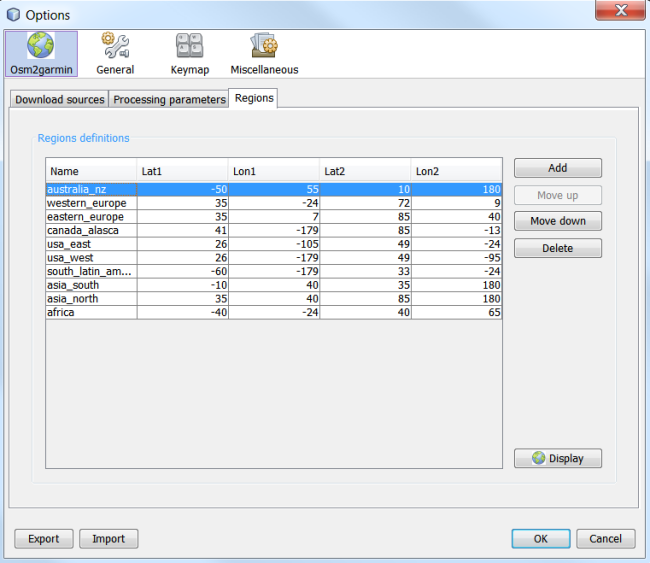
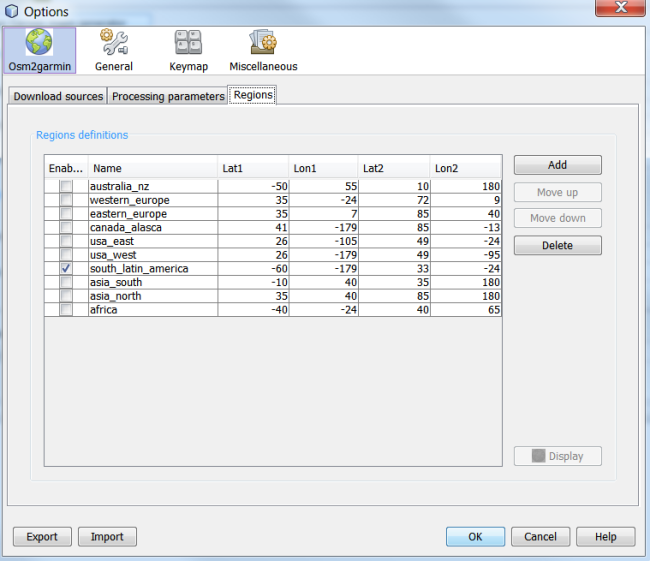
Regions selection for processing Update issue 16 Selection of regions for processing enabled in GUI as well as command-line processing. In CLI, if region line starts with x, the region is excluded from processing. GUI regions table provides the same functionality and writes current state to regions.

Changed region(s): [[0.0, 0.0, 1.0, 1.0], [0.6769, 0.9394, 0.9538, 1.0], [0.9846, 0.7273, 1.0, 0.7576]]

diff --git a/Osm2garminGUI/src/main/java/org/mantlik/osm2garminspi/RegionsPanel.java b/Osm2garminGUI/src/main/java/org/mantlik/osm2garminspi/RegionsPanel.java
@@ -71,11 +71,11 @@ final class RegionsPanel extends javax.swing.JPanel implements ListSelectionList
 
             },
             new String [] {
-                "Name", "Lat1", "Lon1", "Lat2", "Lon2"
+                "Enabled", "Name", "Lat1", "Lon1", "Lat2", "Lon2"
             }
         ) {
             Class[] types = new Class [] {
-                java.lang.String.class, java.lang.Float.class, java.lang.Float.class, java.lang.Float.class, java.lang.Float.class
+                java.lang.Boolean.class, java.lang.String.class, java.lang.Float.class, java.lang.Float.class, java.lang.Float.class, java.lang.Float.class
             };
 
             public Class getColumnClass(int columnIndex) {
@@ -91,11 +91,12 @@ final class RegionsPanel extends javax.swing.JPanel implements ListSelectionList
             }
         });
         jScrollPane3.setViewportView(regionsTable);
-        regionsTable.getColumnModel().getColumn(0).setHeaderValue(org.openide.util.NbBundle.getMessage(RegionsPanel.class, "RegionsPanel.regionsTable.columnModel.title0_1")); // NOI18N
-        regionsTable.getColumnModel().getColumn(1).setHeaderValue(org.openide.util.NbBundle.getMessage(RegionsPanel.class, "RegionsPanel.regionsTable.columnModel.title1_1")); // NOI18N
-        regionsTable.getColumnModel().getColumn(2).setHeaderValue(org.openide.util.NbBundle.getMessage(RegionsPanel.class, "RegionsPanel.regionsTable.columnModel.title2_1")); // NOI18N
-        regionsTable.getColumnModel().getColumn(3).setHeaderValue(org.openide.util.NbBundle.getMessage(RegionsPanel.class, "RegionsPanel.regionsTable.columnModel.title3_1")); // NOI18N
-        regionsTable.getColumnModel().getColumn(4).setHeaderValue(org.openide.util.NbBundle.getMessage(RegionsPanel.class, "RegionsPanel.regionsTable.columnModel.title4_1")); // NOI18N
+        regionsTable.getColumnModel().getColumn(0).setHeaderValue(org.openide.util.NbBundle.getMessage(RegionsPanel.class, "RegionsPanel.regionsTable.columnModel.title5")); // NOI18N
+        regionsTable.getColumnModel().getColumn(1).setHeaderValue(org.openide.util.NbBundle.getMessage(RegionsPanel.class, "RegionsPanel.regionsTable.columnModel.title0_1")); // NOI18N
+        regionsTable.getColumnModel().getColumn(2).setHeaderValue(org.openide.util.NbBundle.getMessage(RegionsPanel.class, "RegionsPanel.regionsTable.columnModel.title1_1")); // NOI18N
+        regionsTable.getColumnModel().getColumn(3).setHeaderValue(org.openide.util.NbBundle.getMessage(RegionsPanel.class, "RegionsPanel.regionsTable.columnModel.title2_1")); // NOI18N
+        regionsTable.getColumnModel().getColumn(4).setHeaderValue(org.openide.util.NbBundle.getMessage(RegionsPanel.class, "RegionsPanel.regionsTable.columnModel.title3_1")); // NOI18N
+        regionsTable.getColumnModel().getColumn(5).setHeaderValue(org.openide.util.NbBundle.getMessage(RegionsPanel.class, "RegionsPanel.regionsTable.columnModel.title4_1")); // NOI18N
 
         org.openide.awt.Mnemonics.setLocalizedText(addRegionButton, org.openide.util.NbBundle.getMessage(RegionsPanel.class, "RegionsPanel.addRegionButton.text")); // NOI18N
         addRegionButton.addActionListener(new java.awt.event.ActionListener() {
@@ -217,11 +218,12 @@ final class RegionsPanel extends javax.swing.JPanel implements ListSelectionList
         if ((selectedRow < 0) || (selectedRow >= regionsTable.getRowCount())) {
             return;
         }
-        String name = (String) model.getValueAt(selectedRow, 0);
-        float lat1 = (Float) model.getValueAt(selectedRow, 1);
-        float lon1 = (Float) model.getValueAt(selectedRow, 2);
-        float lat2 = (Float) model.getValueAt(selectedRow, 3);
-        float lon2 = (Float) model.getValueAt(selectedRow, 4);
+        boolean enabled = (Boolean) model.getValueAt(selectedRow, 0);
+        String name = (String) model.getValueAt(selectedRow, 1);
+        float lat1 = (Float) model.getValueAt(selectedRow, 2);
+        float lon1 = (Float) model.getValueAt(selectedRow, 3);
+        float lat2 = (Float) model.getValueAt(selectedRow, 4);
+        float lon2 = (Float) model.getValueAt(selectedRow, 5);
         float left = Math.max(lon1 - 5, -180);
         float right = Math.min(lon2 + 5, 180);
         float bottom = Math.max(lat1 - 5, -65);
@@ -235,7 +237,7 @@ final class RegionsPanel extends javax.swing.JPanel implements ListSelectionList
         File r = new File(rname);
         try {
             PrintStream printer = new PrintStream(r);
-            printer.println("<html><head><title>"+name+"</title></head><body>");
+            printer.println("<html><head><title>" + name + "</title></head><body>");
             printer.println("<img src=\"" + addr + "\" />");
             printer.println("</body></html>");
             printer.close();
@@ -282,13 +284,18 @@ final class RegionsPanel extends javax.swing.JPanel implements ListSelectionList
             s = new Scanner(new FileInputStream(r));
             while (s.hasNext()) {
                 String[] l = s.nextLine().split(" +");
-                if (l.length >= 5) {
+                if (l.length >= 5 && !(l[0].startsWith("#"))) {
+                    boolean enabled = true;
+                    if (l[0].startsWith("x")) {
+                        enabled = false;
+                        l[0] = l[0].replace("x", "");
+                    }
                     String name = l[4];
                     float lon1 = Float.parseFloat(l[0]);
                     float lat1 = Float.parseFloat(l[1]);
                     float lon2 = Float.parseFloat(l[2]);
                     float lat2 = Float.parseFloat(l[3]);
-                    model.insertRow(model.getRowCount(), new Object[]{name, lat1, lon1, lat2, lon2});
+                    model.insertRow(model.getRowCount(), new Object[]{enabled, name, lat1, lon1, lat2, lon2});
                 }
             }
         } catch (FileNotFoundException ex) {
@@ -311,12 +318,16 @@ final class RegionsPanel extends javax.swing.JPanel implements ListSelectionList
             DefaultTableModel model = (DefaultTableModel) regionsTable.getModel();
             PrintStream printer = new PrintStream(r);
             for (int i = 0; i < regionsTable.getRowCount(); i++) {
-                String name = (String) model.getValueAt(i, 0);
-                float lat1 = (Float) model.getValueAt(i, 1);
-                float lon1 = (Float) model.getValueAt(i, 2);
-                float lat2 = (Float) model.getValueAt(i, 3);
-                float lon2 = (Float) model.getValueAt(i, 4);
+                boolean enabled = (Boolean) model.getValueAt(i, 0);
+                String name = (String) model.getValueAt(i, 1);
+                float lat1 = (Float) model.getValueAt(i, 2);
+                float lon1 = (Float) model.getValueAt(i, 3);
+                float lat2 = (Float) model.getValueAt(i, 4);
+                float lon2 = (Float) model.getValueAt(i, 5);
                 name = name.trim().replace(" ", "_");
+                if (!enabled) {
+                    printer.print("x");
+                }
                 if (!name.equals("")) {
                     printer.println(lon1 + " " + lat1 + " " + lon2 + " " + lat2 + " " + name);
                 }
